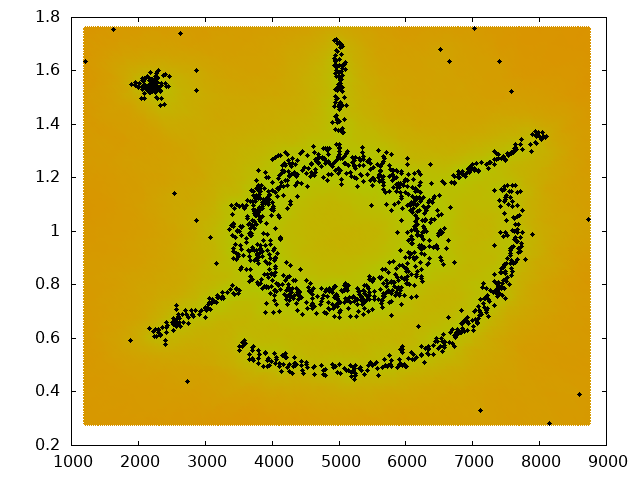
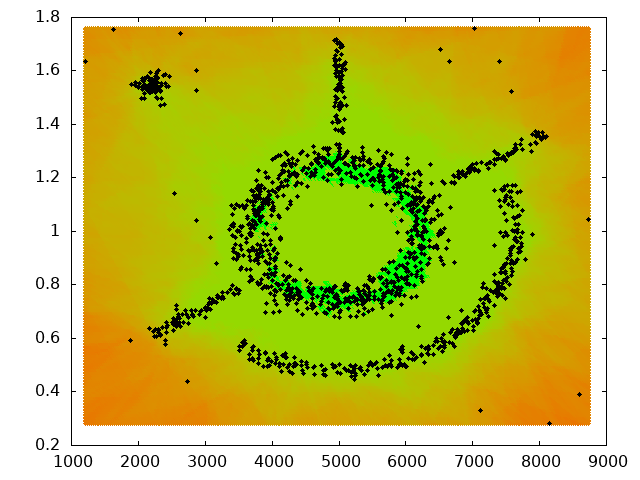
Docs modified

diff --git a/docs/tweaking.md b/docs/tweaking.md
@@ -4,11 +4,11 @@ Here are some examples generated by running `ceif`. The examples use 2-dimension
 
 ### Data Samples
 
-Four different datasets are used in this document: two blobs, square, circle, and complex:
+Three different baseline datasets are used in this introductory comparison: two blobs, square, and circle:
 
-|Two blobs|Square|Circle|Complex|
-|---|---|---|---|
-|![](pics/2blob.png)|![](pics/square.png)|![](pics/circle.png)|![](pics/complex2d.png)|
+|Two blobs|Square|Circle|
+|---|---|---|
+|![](pics/2blob.png)|![](pics/square.png)|![](pics/circle.png)|
 
 ### Used Commands
 
@@ -31,21 +31,20 @@ This generates an anomaly score map in `pic.png`. Command breakdown:
 ### Results
 
 #### Extended Isolation Forest with Revised Algorithm
-The following table presents score heatmaps across thresholds 0, 0.5, 0.5s (scaled), and percentile scores (such as 97%). 
+The following table presents score heatmaps across thresholds 0, 0.5, and 0.5s (scaled). 
 Training samples are shown in black. Outlier regions are displayed in color (yellow to red gradient), while inlier regions are white.
 
-|Outlier score value (-O)|Two blobs|Square|Circle|Complex|
-|---|---|---|---|---|
-|training data|![](pics/2blob.png)|![](pics/square.png)|![](pics/circle.png)|![](pics/complex2d.png)|
-|0|![](pics/2blob_O0.png)|![](pics/square_O0.png)|![](pics/circle_O0.png)|![](pics/complex2d_O0.png)|
-|0.5|![](pics/2blob_O05.png)|![](pics/square_O05.png)|![](pics/circle_O05.png)|![](pics/complex2d_O05.png)|
-|0.5s|![](pics/2blob_O05s.png)|![](pics/square_O05s.png)|![](pics/circle_O05s.png)|![](pics/complex2d_O05s.png)|
-|97%|![](pics/2blob_O97p.png)|![](pics/square_O97p.png)|![](pics/circle_O97p.png)|![](pics/complex2d_O97p.png)|
+|Outlier score value (-O)|Two blobs|Square|Circle|
+|---|---|---|---|
+|training data|![](pics/2blob.png)|![](pics/square.png)|![](pics/circle.png)|
+|0|![](pics/2blob_O0.png)|![](pics/square_O0.png)|![](pics/circle_O0.png)|
+|0.5|![](pics/2blob_O05.png)|![](pics/square_O05.png)|![](pics/circle_O05.png)|
+|0.5s|![](pics/2blob_O05s.png)|![](pics/square_O05s.png)|![](pics/circle_O05s.png)|
 
 A raw outlier score of 0.5 behaves differently across topologies. For 2blobs and square, it marks some valid training points as outliers, while for circle it is too permissive.
 A 100% percentile score preserves all training data points within the inlier region.
 
-Typically, the scaled score threshold `0.5s` provides a reliable default boundary across most distributions. For complex topologies featuring non-convex geometries, narrow canals, and central voids (as in the Complex dataset), a percentile score such as `97%` (with `-t 200` trees) provides an exceptionally sharp, tight inlier envelope while cleanly carving out inner holes and background noise.
+Typically, the scaled score threshold `0.5s` provides a reliable default boundary across most distributions.
 
 #### Scaled Outlier Score
 When suffix 's' is appended to the outlier score, analyzed scores are scaled to the range 0..1. Typical raw scores for normal distributions fall between 0.3 and 0.85. 
@@ -62,18 +61,21 @@ Percentage scores can help identify distribution shift or bias: if the threshold
 If inlier counts deviate significantly, the test dataset may have distribution drift. The `-v` option prints these summary statistics.
 
 #### Complex Topologies
-Nested non-convex shapes, such as two concentric circles, present challenges because random hyperplanes can easily bridge across separated inlier and outlier bands. 
-Here, the nearest training point distance adjustment is critical:
+Nested non-convex shapes, such as concentric circles and complex synthetic topologies, present challenges because random hyperplanes can easily bridge across separated inlier and outlier bands. 
+Here, the nearest training point distance adjustment (`NEAREST 1`, default) is critical to resolve voids, narrow channels, and fine boundaries:
 
-| Case | Two circles |
-|---|---|
-|Data map|![](pics/2circle.png)|
-|-O 0s and NEAREST 0|![](pics/2circle_O0.png)|
-|-O 0s and NEAREST 1|![](pics/2circle_O0n1.png)|
-|-O 0.21s and NEAREST 0|![](pics/2circle_O21sn0.png)|
-|-O 0.21s and NEAREST 1|![](pics/2circle_O21sn1.png)|
+| Case | Two circles | Complex |
+|---|---|---|
+|Data map|![](pics/2circle.png)|![](pics/complex2d.png)|
+|-O 0s and NEAREST 0|![](pics/2circle_O0.png)|![](pics/complex2d_O0.png)|
+|-O 0s and NEAREST 1|![](pics/2circle_O0n1.png)|![](pics/complex2d_O0n1.png)|
+|-O 0.45s and NEAREST 0|![](pics/2circle_O45sn0.png)|![](pics/complex2d_O45sn0.png)|
+|-O 0.45s and NEAREST 1|![](pics/2circle_O45sn1.png)|![](pics/complex2d_O45sn1.png)|
+|-O 97% and NEAREST 1|![](pics/2circle_O97p.png)|![](pics/complex2d_O97p.png)|
 
-Without nearest-point distance weighting, isolating the gap between concentric rings is difficult. In the final example, the space between the circles is cleanly identified as an outlier zone. The trade-off is a slight increase in evaluation time.
+Without nearest-point distance weighting (`NEAREST 0`), isolating internal voids and gaps between separate structures is difficult—hyperplanes span across empty space, incorrectly grouping distinct components into a single connected inlier mass. With `NEAREST 1`, the spaces between concentric rings and the canals of complex shapes are cleanly identified as outlier zones, while the white inlier envelope crisply traces the actual sample points.
+
+For complex geometries, combining `NEAREST 1` with a percentile score such as `-O 97%` (optionally with higher tree counts like `-t 200`) produces exceptionally sharp, tight inlier envelopes that hug fine geometric features while preserving internal voids. The trade-off is a slight increase in evaluation time.
 
 ### Saving and Updating Forest Data
 The result of the training phase can be saved to a file for later inference, and iteratively updated with new training batches. 
